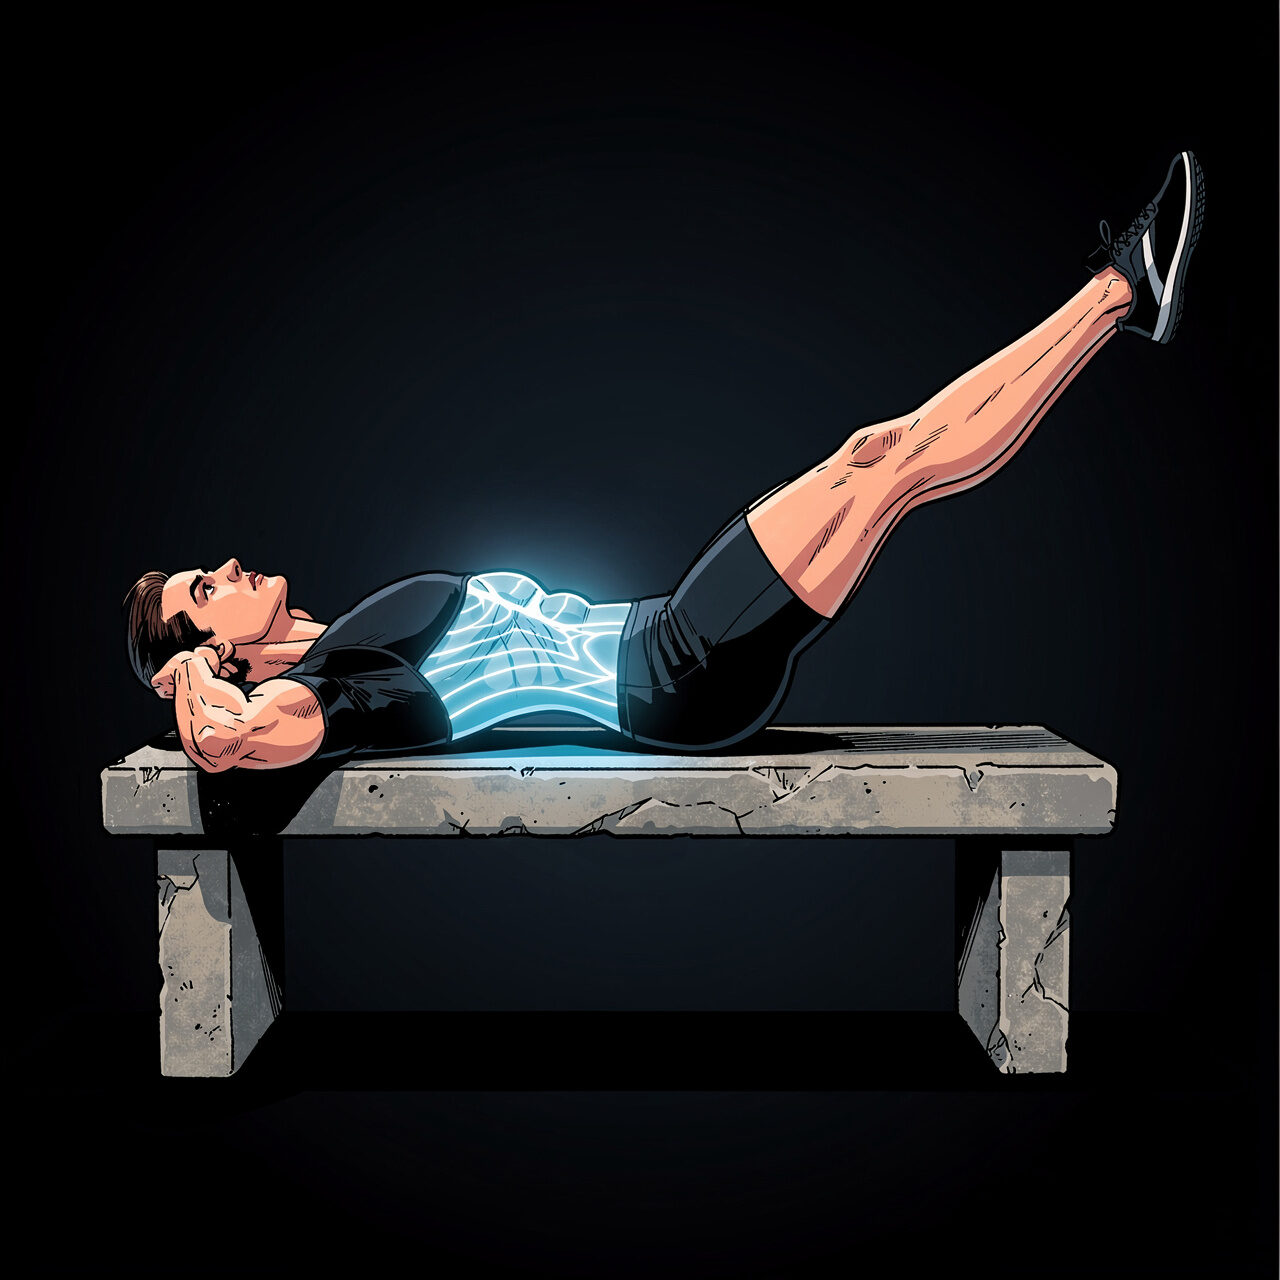
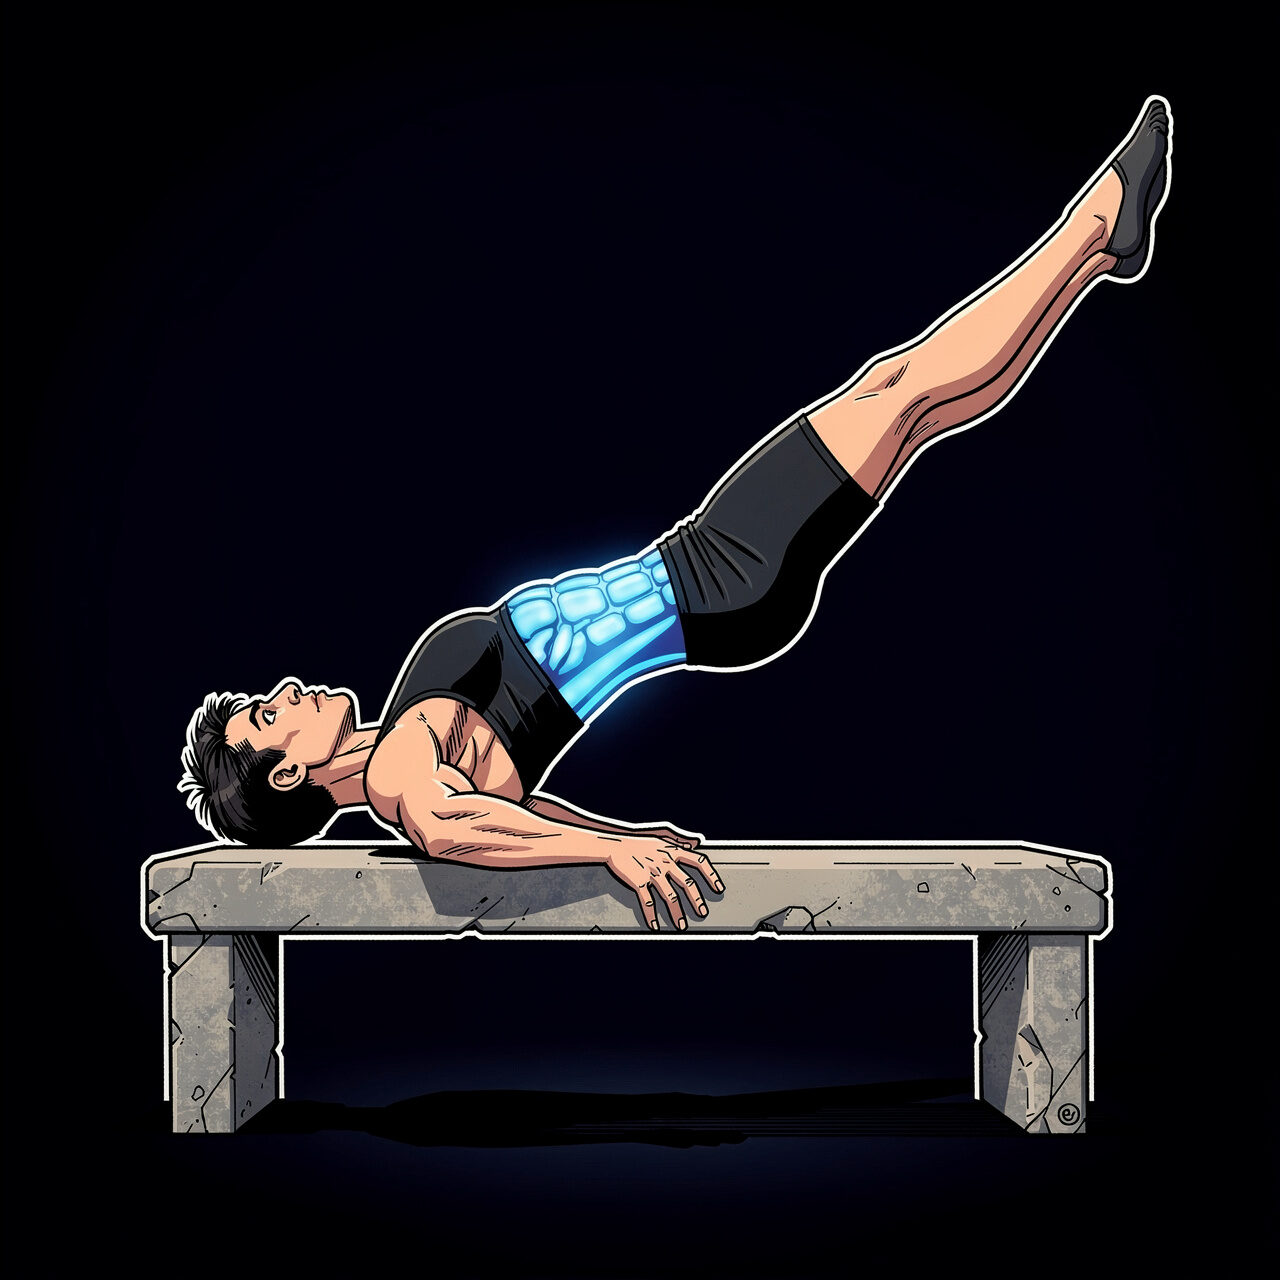
art(exercices): l'ATR et le dragon flag, chacun pour une raison différente
L'ATR sortait avec la tête détachée du torse et les jambes en masse noire à part :
un corps inversé est l'endroit où l'anatomie de ce modèle lâche. Décrit non plus
comme une pose nommée qu'il doit reconstruire, mais empilé axe par axe — mains,
puis épaules, puis hanches, puis pieds, une seule colonne verticale — il tient.

Le dragon flag a d'abord donné un relevé de jambes, puis, à force d'insister sur
le nom, un authentique drapeau à dragon dans le poing de l'athlète. Deux noms
communs que ce modèle préfère nettement dessiner plutôt qu'une posture. Le nom
n'apparaît donc plus nulle part dans le prompt : le slug porte l'identité, le
texte ne décrit qu'une forme. Le levier corps entier pivotant sur les épaules,
hanches décollées, sort correctement.

La pompe sur les genoux reste en échec au troisième essai : ce modèle la ramène
obstinément vers le quatre-pattes bras tendus.

Changed region(s): [[0.0625, 0.0625, 0.9375, 0.9062], [0.2812, 0.8125, 0.6562, 0.9062]]

diff --git a/scripts/generate-exercises.py b/scripts/generate-exercises.py
@@ -276,14 +276,33 @@ EXERCISES = [
     # The `0032` batch: seven rungs inserted between movements that were already here, so each of
     # these has to read as *clearly easier* than the art directly above it on the ladder. That is
     # the whole job — a knee push-up drawn as heroically as a diamond push-up teaches nothing.
+    # Came back as a straight-armed tabletop, indistinguishable from cat-cow at thumbnail size,
+    # because nothing in the text forced the bottom of the rep. Two facts fix it, both read off an
+    # anatomy plate: the elbows are bent and the chest is nearly touching the floor, and only the
+    # KNEES are down — the shins are up in the air behind, which is what separates this from
+    # kneeling on all fours.
     ("knee_pushup",
-     "A fantasy athlete hero in a push-up with the knees resting on the ground, ankles crossed "
-     "behind, chest lowered to a fist above the floor and the body a straight line from head to "
-     "knee; the chest and arms glow with soft fiery orange energy, seen from the side."),
+     "A fantasy athlete hero at the very bottom of a push-up done from the knees, seen from the "
+     "side, almost lying on the floor. The elbows are folded to a sharp angle and point backwards "
+     "past the ribs, the shoulders have dropped down level with them, and the chest and chin hang "
+     "barely a fist above the ground — the head is lower than the hips. Only the two knees rest on "
+     "the ground: the shins and feet are raised up in the air behind, ankles crossed, so the knees "
+     "are the single point of contact below the hands. From the head down to the knees the body "
+     "holds one straight line. There is nothing else on the floor in front of the athlete. The "
+     "chest and arms glow with soft fiery orange energy."),
+    # First draw came back with the head detached from the torso and the legs a separate black
+    # shape: an inverted body is where this model's anatomy breaks down, so the figure is described
+    # bottom-up along one vertical axis — hands, then shoulders, then hips, then feet — rather than
+    # as a named pose it has to reconstruct.
     ("wall_handstand",
-     "A fantasy athlete hero holding a handstand with the feet resting against a solid stone wall "
-     "behind them, arms locked straight, body stacked vertically and ribs closed; the shoulders "
-     "and arms glow with silver-blue energy, seen from the side."),
+     "A fantasy athlete hero upside down in a handstand against a stone wall, seen from the side. "
+     "Both palms are flat on the floor a short step out from the wall, the arms are locked "
+     "completely straight and vertical, the shoulders sit directly above the hands, the hips "
+     "directly above the shoulders and the legs run straight up from there, so that the whole "
+     "body is one single unbroken vertical column from hands to toes. The feet at the very top "
+     "rest lightly against the wall. The head hangs down between the two upper arms and stays "
+     "clearly joined to the neck and shoulders, facing the floor. The shoulders and arms glow with "
+     "silver-blue energy."),
     ("dead_hang",
      "A fantasy athlete hero hanging at full stretch from a rugged stone bar, arms completely "
      "straight, shoulders relaxed away from the ears and feet clear of the ground; the forearms "
@@ -392,10 +411,23 @@ EXERCISES = [
      "way clear of the floor, and both arms reach forward as a counterweight. One foot only "
      "touches the ground anywhere in this image — the free leg never touches it at any point. The "
      "working leg glows with electric-blue energy, seen from the side."),
+    # Came back as a lying leg raise, which is what a dragon flag collapses into the moment the
+    # hips are allowed to stay down. Same lever that rescued `single_leg_glute_bridge`: name the
+    # geometry rather than the effort. Here the body is one rigid pole pivoting on the shoulders,
+    # and the fact that decides it is which parts of the bench are still touched.
+    # ... and the second draw put a literal dragon banner in the athlete's fist, because the move's
+    # name is two nouns this model would much rather render than a posture. So the name appears
+    # nowhere below: the prompt describes only the shape, and the slug carries the identity.
     ("dragon_flag",
-     "A fantasy athlete hero lying back on a low stone bench gripping its edge behind their head, "
-     "the entire body raised in one rigid straight line balanced on the upper back and shoulders, "
-     "feet high in the air; the abdominals glow with electric-blue energy, seen from the side."),
+     "A fantasy athlete hero holding a whole-body lever on a low stone bench, seen from the side. "
+     "There is no banner, no flag, no cloth and no pole anywhere in the picture. Only "
+     "the shoulders and the very top of the back still rest on the bench; both hands reach back "
+     "over the head to grip its far edge. From the shoulders upward the entire body — back, hips, "
+     "legs and feet — is one single rigid straight pole tilted steeply into the air, with the hips "
+     "and the whole lower back lifted well clear of the bench and nothing but empty dark space "
+     "beneath them. The body does not bend at the waist and the hips never touch the bench: the "
+     "whole pole pivots on the shoulders, and it is not a leg raise. The abdominals glow with "
+     "electric-blue energy."),
     # A block under the hands, same reason as `tuck_l_sit`. The flat-palmed version came back as a
     # crouch: what separates a tuck planche from squatting on your hands is the forward shoulder
     # lean and the knees being *behind* the hands, so both are stated as positions, not qualities.
